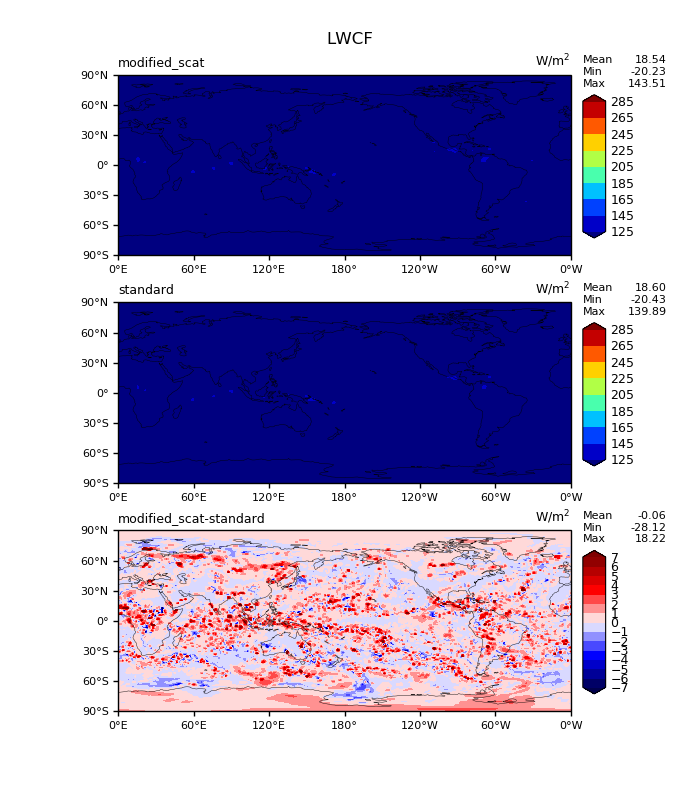
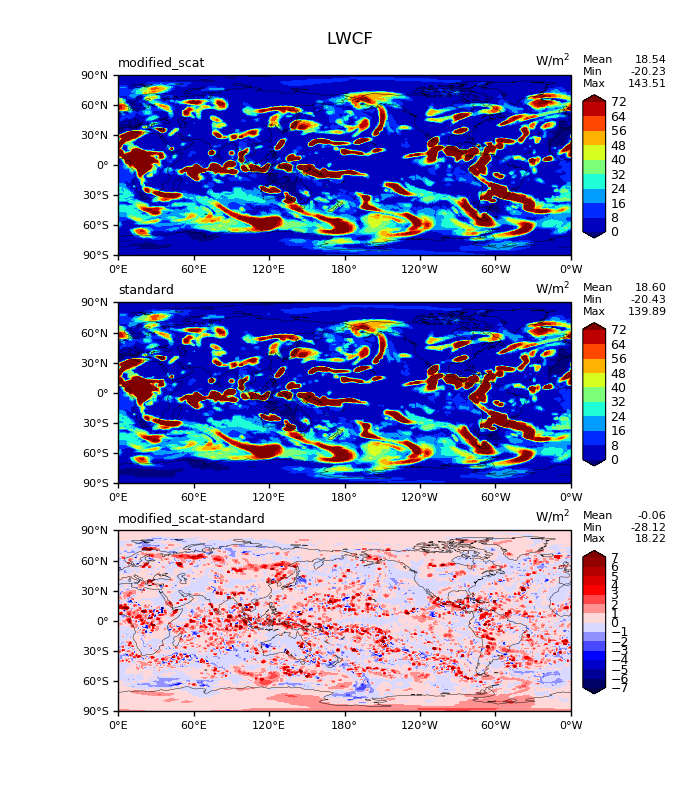
plot lwcf bug

Changed region(s): [[0.15, 0.375, 0.9, 0.625], [0.15, 0.0938, 0.9, 0.3438]]

diff --git a/d1_lon_lat_contour_model_vs_model_sgl.py b/d1_lon_lat_contour_model_vs_model_sgl.py
@@ -22,17 +22,19 @@ from get_parameters import get_area_mean_min_max
 #def lon_lat_contour_model_vs_model(varnm,season,scale_ctl,scale_exp,table):
 # data path
 ctl_name="standard" #os.environ["ctl_name"]
-exp_name="modified_scat" #os.environ["exp_name"]
-fpath_ctl='/global/cscratch1/sd/xianwen/E3SM_simulations/E3SM_v2_alpha_AMIP_RRTMG_UMRad_startover.ne30_ne30.cori-knl/archive/remap_180x360_orig/'
-fpath_exp='/global/cscratch1/sd/xianwen/E3SM_simulations/E3SM_v2_alpha_AMIP_RRTMG_UMRad_startover.ne30_ne30.cori-knl/archive/remap_180x360_UMRad_startover/'
+exp_name="modifiedbug" #os.environ["exp_name"]
+#fpath_ctl='/global/cscratch1/sd/xianwen/E3SM_simulations/E3SM_v2_alpha_AMIP_RRTMG_UMRad_startover.ne30_ne30.cori-knl/archive/remap_180x360_orig/'
+#fpath_exp='/global/cscratch1/sd/xianwen/E3SM_simulations/E3SM_v2_alpha_AMIP_RRTMG_UMRad_startover.ne30_ne30.cori-knl/archive/remap_180x360_UMRad_bug/'
+fpath_ctl='/global/cscratch1/sd/xianwen/E3SM_simulations/E3SM_v2_alpha_AMIP_RRTMG_UMRad_tau_ice.ne30_ne30.cori-knl/archive/remap_180x360_orig/'
+fpath_exp='/global/cscratch1/sd/xianwen/E3SM_simulations/E3SM_v2_alpha_AMIP_RRTMG_UMRad_tau_ice.ne30_ne30.cori-knl/archive/remap_180x360_UMRad_bug/'
 
 #fpath_exp="../../E3SM_output/E3SM_coupled_restart_20TR_Yr2000-Scat.Year2000_2014/climo/"
  
 #f1=fpath_ctl+"E3SMv2_offline_ICEFLAG1_full2_noEmis_climo_ANN.nc"
 #f2=fpath_exp+"E3SMv2_offline_ICEFLAG1_full2_noEmis_climo_ANN.nc"
 #f1=fpath_ctl+"E3SM_v2_alpha_AMIP_RRTMGP.ne30_ne30.cori-knl.cam.h0.0001-01-01-00000.nc"
-f1=fpath_ctl+"E3SM_v2_alpha_AMIP_RRTMG_UMRad_startover.ne30_ne30.cori-knl.cam.h0.2000-01-01-07200.nc"
-f2=fpath_exp+"E3SM_v2_alpha_AMIP_RRTMG_UMRad_startover.ne30_ne30.cori-knl.cam.h0.2000-01-01-07200.nc"
+f1=fpath_ctl+"E3SM_v2_alpha_AMIP_RRTMG_UMRad_tau_ice.ne30_ne30.cori-knl.cam.h0.2000-01-01-07200.nc"
+f2=fpath_exp+"E3SM_v2_alpha_AMIP_RRTMG_UMRad_tau_ice.ne30_ne30.cori-knl.cam.h0.2000-01-01-07200.nc"
 #f2=fpath_exp+"E3SM_coupled_restart_20TR_Yr2000-Scat.Year2000_2014_climo_ANN.nc"
 
 #f1=fpath_ctl+"solar_TSIS_cesm211_standard-ETEST-f19_g17-ens1.cam.h0.0001-01.nc"
@@ -110,10 +112,10 @@ for i in range(0,3):
     norm = None
     if i != 2:
         #cnlevels=np.array([0,10,20,30,40,50,60]) #parameters["contour_levs"]
-        cnlevels=np.arange(125,300,20)
+        #cnlevels=np.arange(125,300,20)
         #cnlevels=np.arange(70,420,30)
         #cnlevels=np.arange(20,150,10)
-        #cnlevels=np.arange(0,80,8)
+        cnlevels=np.arange(0,80,8)
         #cnlevels=np.arange(0,1,0.1)
     else:
         #cnlevels=np.arange(-9,10,1.5)
